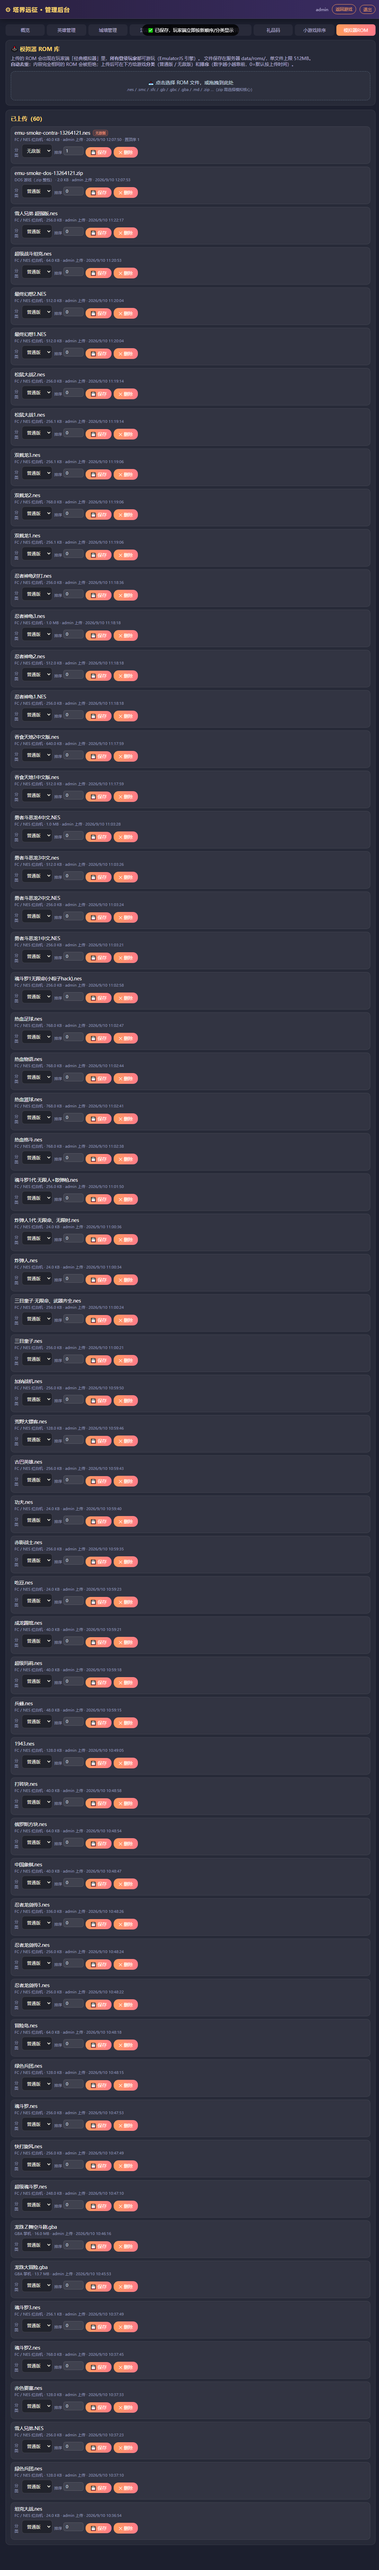
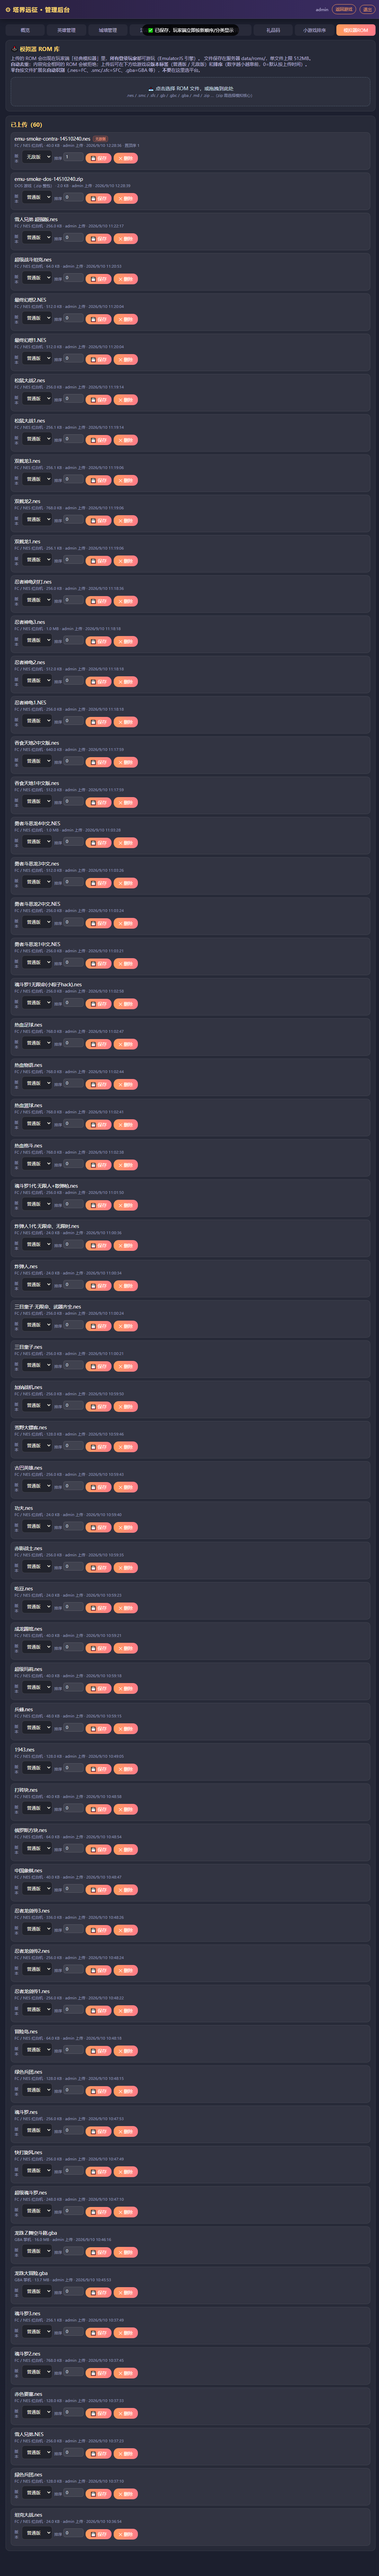
feat：未提交文件提交

diff --git a/server.js b/server.js
@@ -3253,7 +3253,7 @@ const server = http.createServer(async (req, res) => {
             DB.users = st.users;
             DB.tokens = st.tokens || {};
             if ((st.heroes || []).length) DB.heroes = st.heroes;
-            ['chat', 'mails', 'clans', 'world', 'ancient', 'events', 'giftCodes'].forEach(k => {
+            ['chat', 'mails', 'clans', 'world', 'ancient', 'events', 'giftCodes', 'roms'].forEach(k => {
                 const v = st[k];
                 if (v === undefined || v === null) return;
                 const empty = Array.isArray(v) ? v.length === 0 : Object.keys(v).length === 0;

diff --git a/server/store.js b/server/store.js
@@ -24,6 +24,9 @@ const META_KEYS = [
     '_meta', 'tokens',
     // 小游戏：积分排行榜（{gameId: [entry]}）+ 后台排序（string[]）
     'minigameScores', 'minigameOrder',
+    // 模拟器 ROM 元数据（bin 文件在磁盘 data/roms/，元数据必须持久化，
+    // 否则 MySQL 模式下重启即丢——线上 80+ ROM 列表清空事故的根因）
+    'roms',
 ];
 // 这些 key 在库里还没有记录时要初始化成对象（{}），其余初始化成数组（[]）
 const META_OBJ_KEYS = new Set(['tokens', 'world', 'clans', 'minigameScores']);

diff --git a/.workbuddy/memory/2026-09-10.md b/.workbuddy/memory/2026-09-10.md
@@ -108,3 +108,71 @@
 **验证**：冒烟 26/26 全过 · 全量审计 107 款 0 异常
 
 **教训**：用户报告「没有这个功能」时，先用真实浏览器探针验证「是 DOM 真没有还是被遮挡」再下结论。CSS 容器+flex 子项的内置尺寸（iframe 默认 300x150、textarea 默认 25×2 等）经常吃掉 flex:1，需要 `min-width/min-height: 0` 显式放行。
+
+## 18. 模拟器 401 未登录误提示"管理员没上传"（手机看不到游戏）
+
+### 症状
+玩家用手机外网 IP 访问 152.136.167.250:5180 看到"管理员还没有上传游戏，敬请期待"，电脑访问 localhost:5180 正常看到 60 个 ROM。
+
+### 根因
+不是云端 ROM 库为空，也不是云端代码旧版。
+- emulator.js `romList()` 把 `/api/roms` 401（未登录）返回的 `{error:"未登录"}` 用 `(d && d.roms) || []` 吞掉 → 当空数组 → 渲染"管理员还没有上传游戏"
+- 手机 localStorage 里 game-token 失效（清理缓存/换浏览器/管家软件清 cookie）
+- 但 token 失效前端是 silent 吞掉，玩家完全不知道要重新登录
+
+### 修复
+- emulator.js `romList()` 检测 `r.status === 401` → 返回 `{_authError: true}` 标记
+- `renderList(roms, authError)` 在 authError 分支显示：
+  - 醒目提示："⚠ 登录状态已失效（浏览器缓存被清理 / token 过期）"
+  - 说明："电脑正常而手机看不到游戏，多半就是这个原因"
+  - 一键【⏏ 退出账号 · 重新登录】按钮（清 token + 刷新跳登录页）
+- emulator.js 版本 20260910e → 20260910f
+- smoke-emulator.js 加 ⑤.c 测试段：清 token 触发 401 → 验证新提示和按钮
+
+### 验证
+冒烟 30/30 全过（之前 26/26，新增 4 条 401 断言）
+
+### 教训
+**API 鉴权失败必须明确区分"没数据" vs "没登录"**。
+前端 catch 或 fallback 到空数组会把鉴权失败吞掉，让玩家以为是数据问题，定位极其困难。建议：
+- 所有鉴权 API 在 fetch 失败/4xx 时记录明确错误码
+- 401/未鉴权走专门的 UI 分支（重新登录/提示），不能走"暂无数据"分支
+- 顶层 fetch 封装或拦截器统一处理 401，避免每个调用点都要写
+
+提交链：`efb31e6` → `881abbb`/`508d1f5`（401 修复） → `88f7448`/`35ca5e1`（ROM 去重/分类/筛选） → `beb6dd0`（本次：分类措辞 + 一键同步工具）— 当前 ahead origin 4。
+
+## 数据双机问题（重要）
+- 本机 E:\WorkSpace\tower-odyssey 的 58 个 ROM **永远不会自动到** 云端 152.136.167.250
+- 云端 `data/db.json` 与本机独立，deploy.sh 做了存档保护但两台机器 db.json 仍分开
+- 用户反馈「云端只剩 1 个」很可能是他从一开始就在云端只传过 1 个；本机 58 个在他电脑上
+- 解决：`node tools/sync-roms-to-cloud.js` → 生成 zip → scp 到云端 → 云端跑 `node tools/sync-roms-from-pack.js <zip>`
+  - 零依赖（自带 zip store/deflate）
+  - 合并策略：同 id 保留；同 hash 跳过；只追加新 ROM；自动备份 db.json
+
+## UI 措辞教训
+- 「分类」一词在游戏 ROM 场景下歧义很大：用户以为是「按平台分」（FC/SFC/GBA），实际是「按版本分」（普通/无敌）
+- 「core 平台」应该完全自动识别，UI 上不显示成可选项；只暴露真正需要人工决定的标签
+- 命名：把「分类」改成「版本」+ title 提示「平台按扩展名自动识别」就清晰了
+
+## 19. ROM 库去重 + 管理员分类排序 + 玩家端筛选（三条需求）
+
+### 需求
+0. 上传 ROM 检查重复；1. 管理员给 ROM 分类（各平台 + 无敌版）和排序，玩家按同顺序看；2. 玩家端经典模拟器有筛选（名称模糊搜索 + 分类）。
+
+### 实现
+- **数据模型**：ROM 元数据新增 `category`('normal'|'invincible')、`sort`(0-9999)、`hash`(sha256) 字段
+- **去重**：`POST /api/roms/upload` 落盘后算 SHA-256，与库内 hash 撞 → 409 + 提示已存在游戏名；启动时 `romsBackfillHash()` 为存量 ROM 懒补指纹（首次 58 个）
+- **管理端**：`POST /api/roms/update`（category/sort/name 白名单校验）；/admin ROM 每行内嵌 分类下拉+排序输入+💾保存（dirty 跟踪只提交改动字段）
+- **玩家端**：emulator.js 列表顶部工具栏 = 搜索框(实时) + 平台下拉(9 平台) + 版本下拉(普通/无敌) + "x/y 款"计数；无敌版橙色标签；筛选不重建工具栏保持焦点
+- **排序语义**（两端一致）：`rank = sort>0 ? sort : 1e9` 升序，同为 0 按上传时间倒序 → sort=1 置顶、0=默认
+
+### 踩坑
+1. **排序语义自相矛盾**：第一版直接 `sort 升序`，结果 sort=0（默认）反而排在 sort=1 前面 → 修正为 0 视为未设置映射 1e9
+2. **getElementById 时序**：renderRomRows 首跑时工具栏尚未 append 到 document，getElementById('#emu-count') 拿 null → 改传 bar 引用用 querySelector
+3. **冒烟断言假设错**：GBA 平台筛选预期"空"，实际库存有 2 个 GBA ROM（56 nes + 2 gba）→ 断言改为与 API 动态对账
+4. **名称旁加标签破坏精确匹配**：.emu-item-name 的 textContent 从 'X.nes' 变 'X.nes 无敌版'，冒烟里 5 处 `textContent === name` 全改 `indexOf(name) === 0`
+
+### 验证
+smoke-emulator 41/41（新增 11 条断言）。服务重启后 58 个存量 ROM 已补指纹。
+
+提交：`88f7448`（前端+冒烟）+ `35ca5e1`（server.js 补提交——**首次 commit 漏 add server.js，教训：git add 文件列表要逐个核对**）。
